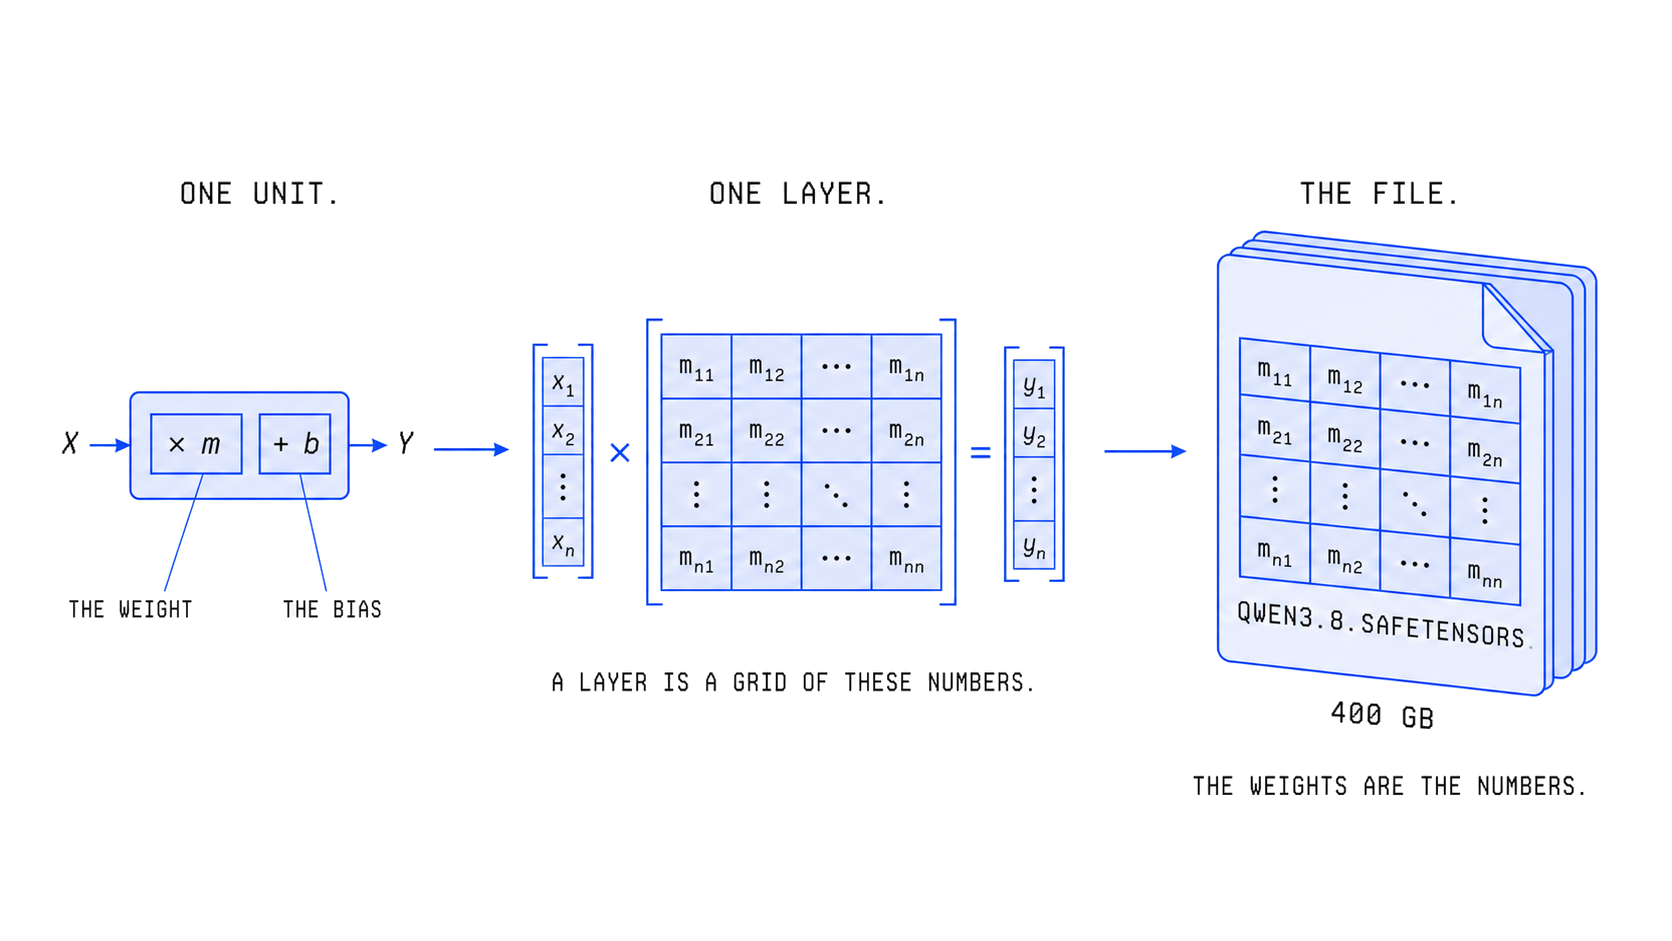
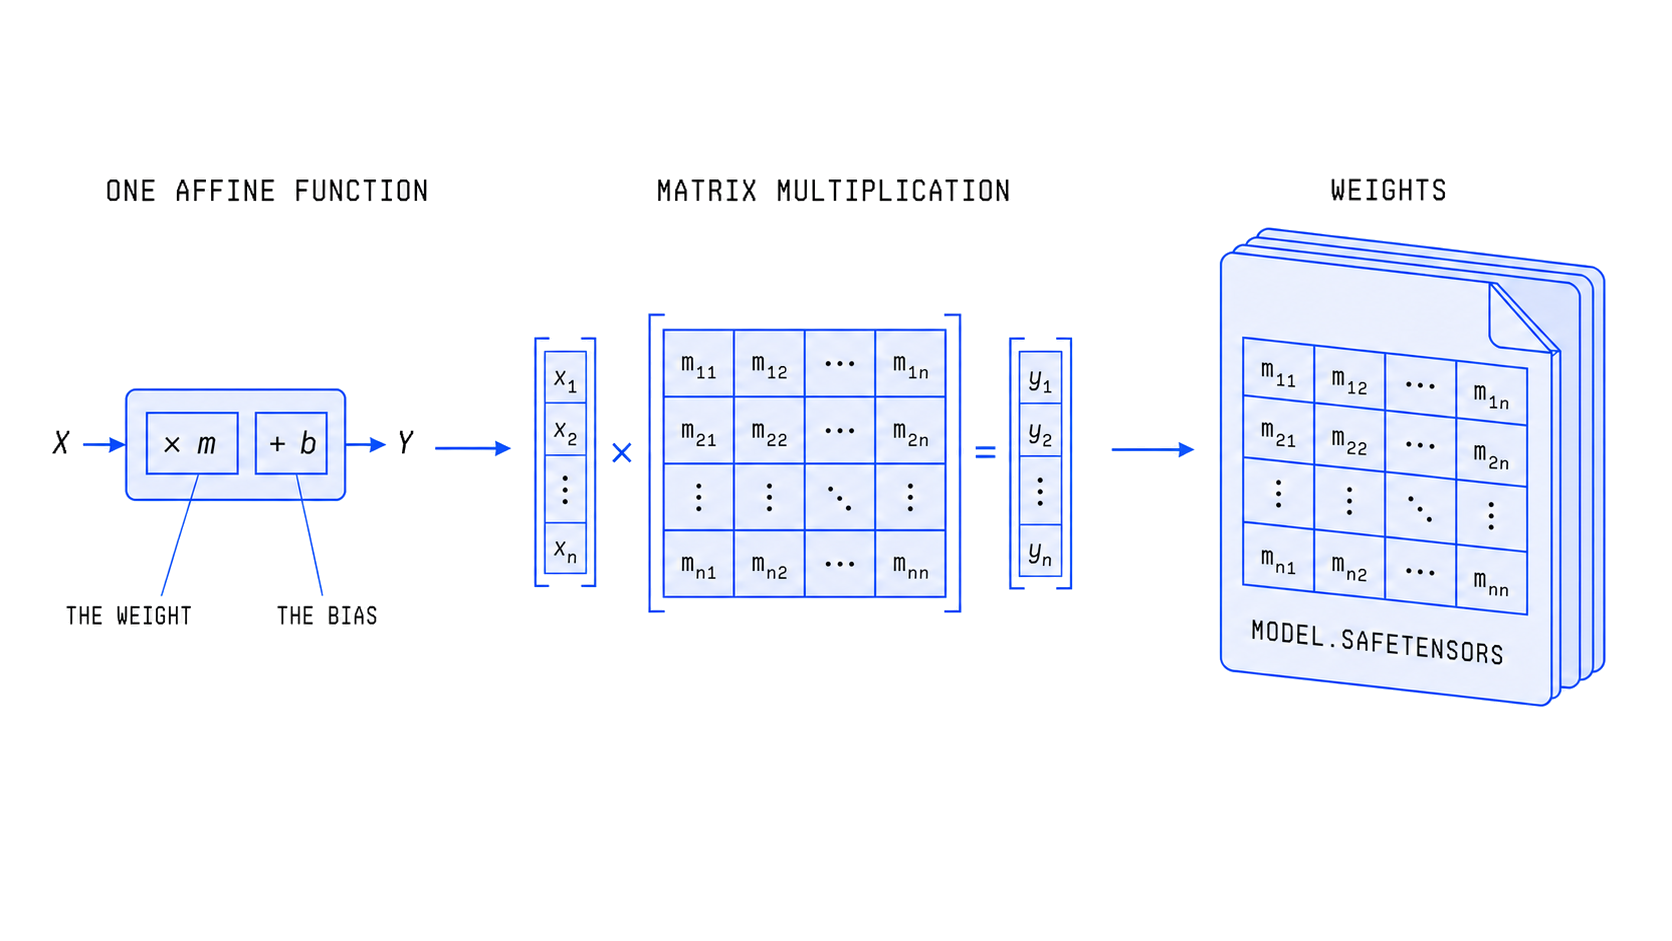
Promote chosen figures and add toggleable slide notes
Figures 03, 04, and 05 keep one variant each under their canonical
filenames, so revisions overwrite in place. Slides gain a `note` prop
for working reminders, hidden until N is pressed so they travel with the
slide they describe without ever surfacing while presenting. Records
what each pending figure still needs.

diff --git a/components/mdx/presentation.tsx b/components/mdx/presentation.tsx
@@ -4,7 +4,9 @@ import { MoveLeft, MoveRight } from "lucide-react";
 import { Geist_Mono, Lora } from "next/font/google";
 import {
   Children,
+  createContext,
   useCallback,
+  useContext,
   useEffect,
   useRef,
   useState,
@@ -52,6 +54,11 @@ const controlButtonClass =
 // cursor fade. Keyboard navigation deliberately does not wake them.
 const FULLSCREEN_IDLE_MS = 2500;
 
+// Working notes travel with the slide they describe (what to redraw, what
+// still needs writing) but must never appear while presenting, so they are
+// hidden until the author presses N.
+const SlideNotesVisible = createContext(false);
+
 // A deliberately small authoring surface: a post supplies one PresentationSlide
 // per slide, and this component owns only viewing, movement, and fullscreen.
 export function Presentation({
@@ -70,6 +77,7 @@ export function Presentation({
   const [isTheater, setIsTheater] = useState(false);
   const [isFullscreen, setIsFullscreen] = useState(false);
   const [isIdle, setIsIdle] = useState(false);
+  const [notesVisible, setNotesVisible] = useState(false);
   const [fullscreenError, setFullscreenError] = useState<string | null>(null);
   const rootRef = useRef<HTMLElement>(null);
   const slideCount = slides.length;
@@ -182,6 +190,12 @@ export function Presentation({
         return;
       }
 
+      if (event.key.toLowerCase() === "n") {
+        event.preventDefault();
+        setNotesVisible((visible) => !visible);
+        return;
+      }
+
       if (event.key.toLowerCase() === "f") {
         event.preventDefault();
         void enterFullscreen();
@@ -214,6 +228,7 @@ export function Presentation({
         {/* The embedded deck is a preview; clicking the slide surface presents
             it in the browser viewport, ⌘-click on the whole display. Links and
             controls inside a slide keep their own click behaviour. */}
+        <SlideNotesVisible.Provider value={notesVisible}>
         <div
           className={`h-full w-full ${isExpanded ? "" : "cursor-zoom-in"}`}
           onClick={(event) => {
@@ -233,6 +248,7 @@ export function Presentation({
         >
           {slides[currentIndex]}
         </div>
+        </SlideNotesVisible.Provider>
 
         {/* Chrome is bare mono corner marks — no rules, no bars. Label
             top-left, presenting controls bottom-left, counter bottom-right. */}
@@ -342,15 +358,19 @@ export function Presentation({
 export function PresentationSlide({
   children,
   layout = "top",
+  note,
   notes
 }: {
   children: ReactNode;
   layout?: "top" | "center" | "fill";
+  /** Working note: what this slide still needs. Shown only when N is pressed. */
+  note?: string;
   /** Sources for the slide's marked claims, pinned under the content. */
   notes?: ReactNode;
 }) {
   const fill = layout === "fill";
   const items = fill ? "items-stretch" : layout === "center" ? "items-center" : "items-start";
+  const noteVisible = useContext(SlideNotesVisible);
 
   return (
     <div className={`flex h-full w-full flex-col px-[max(1.25rem,7cqw)] pt-[max(3rem,8cqw)] pb-[max(3rem,8cqw)] font-(family-name:--font-presentation-serif) [&_a]:underline [&_a]:decoration-1 [&_a]:underline-offset-4 [&_blockquote]:border-l [&_blockquote]:border-(--pres-rule) [&_blockquote]:pl-[max(0.9rem,2.5cqw)] [&_blockquote]:text-(--pres-ink-muted) [&_h1]:max-w-[19ch] [&_h1]:text-[max(1.6rem,4.5cqw)] [&_h1]:leading-[1.08] [&_h1]:font-medium [&_h1]:tracking-[-0.025em] [&_h2]:max-w-[40ch] [&_h2]:text-[max(1.3rem,3.3cqw)] [&_h2]:leading-[1.12] [&_h2]:font-medium [&_h2]:tracking-[-0.02em] [&_li]:mt-[0.4em] [&_li]:text-[max(0.85rem,2cqw)] [&_li]:leading-[1.35] [&_li_li]:text-[0.8em] [&_li_ul]:mt-[0.3em] [&_ol]:mt-[1em] [&_ol]:list-decimal [&_ol]:pl-[1.4em] [&_p]:mt-[1em] [&_p]:max-w-[54ch] [&_p]:text-[max(0.78rem,1.4cqw)] [&_p]:leading-[1.55] [&_p]:text-(--pres-ink-muted) [&_strong]:font-semibold [&_ul]:mt-[1em] [&_ul]:list-disc [&_ul]:pl-[1.25em]`}>
@@ -360,6 +380,13 @@ export function PresentationSlide({
         <div className={`w-full ${fill ? "flex min-h-0 flex-col" : ""}`}>{children}</div>
       </div>
       {notes ? <div className="w-full pt-[max(0.6rem,1.2cqw)]">{notes}</div> : null}
+      {note && noteVisible ? (
+        <div className="w-full pt-[max(0.6rem,1.2cqw)]">
+          <p className="!mt-0 !max-w-none border-l-2 border-(--pres-accent) pl-[0.8em] font-(family-name:--font-presentation-mono) !text-[max(0.55rem,0.85cqw)] !leading-[1.5] !text-(--pres-accent)">
+            {note}
+          </p>
+        </div>
+      ) : null}
     </div>
   );
 }

diff --git a/components/presentations/open-weights.tsx b/components/presentations/open-weights.tsx
@@ -244,49 +244,27 @@ export function OpenWeightsPresentation() {
         </SlideStack>
       </PresentationSlide>
 
-      {/* Candidates. Keep one per figure, drop the rest. */}
-      <PresentationSlide layout="fill">
+      <PresentationSlide
+        layout="fill"
+        note="Fig 03: upscale pending. Text fidelity to improve."
+      >
         <SlideFigure
           alt="One affine unit, a layer of those units as a matrix, and the matrix as a file on disk."
-          caption="Fig. 03, option A"
+          caption="Fig. 03. What is a weight"
           frame={false}
-          src="/images/blog/open-weights-ai-models/03-1-what-is-a-weight.png"
+          src="/images/blog/open-weights-ai-models/03-what-is-a-weight.png"
         />
       </PresentationSlide>
 
-      <PresentationSlide layout="fill">
-        <SlideFigure
-          alt="One affine unit, a layer of those units as a matrix, and the matrix as a file on disk."
-          caption="Fig. 03, option B"
-          frame={false}
-          src="/images/blog/open-weights-ai-models/03-2-what-is-a-weight.png"
-        />
-      </PresentationSlide>
-
-      <PresentationSlide layout="fill">
+      <PresentationSlide
+        layout="fill"
+        note="Fig 04: redraw with real word fragments in the token boxes, they are empty so tokenizing is asserted rather than shown. Upscale pending."
+      >
         <SlideFigure
           alt="Prompt tokenized, passed through the weights, emitted one token at a time."
-          caption="Fig. 04, option A"
+          caption="Fig. 04. Text through the weights"
           frame={false}
-          src="/images/blog/open-weights-ai-models/04-1-text-through-weights.png"
-        />
-      </PresentationSlide>
-
-      <PresentationSlide layout="fill">
-        <SlideFigure
-          alt="Prompt tokenized, passed through the weights, emitted one token at a time."
-          caption="Fig. 04, option B"
-          frame={false}
-          src="/images/blog/open-weights-ai-models/04-2-text-through-weights.png"
-        />
-      </PresentationSlide>
-
-      <PresentationSlide layout="fill">
-        <SlideFigure
-          alt="Prompt tokenized, passed through the weights, emitted one token at a time."
-          caption="Fig. 04, option C"
-          frame={false}
-          src="/images/blog/open-weights-ai-models/04-3-text-through-weights.png"
+          src="/images/blog/open-weights-ai-models/04-text-through-weights.png"
         />
       </PresentationSlide>
 
@@ -337,36 +315,21 @@ export function OpenWeightsPresentation() {
         </SlideStack>
       </PresentationSlide>
 
-      <PresentationSlide>
+      <PresentationSlide note="Needs its content. Elasticity analogy, latte vs heart medication, then what you already run on AI.">
         <SlideStack align="start">
           <h2>Why dependence carries risk</h2>
         </SlideStack>
       </PresentationSlide>
 
-      <PresentationSlide layout="fill">
+      <PresentationSlide
+        layout="fill"
+        note="Fig 05: redraw. Curves must start as one line, not two. Keep push and pull. Drop OPTIMIZED FOR THEM NOT YOU and the solid fill. Replace the fill with a dotted bracket labelled LOST VALUE. Label the y axis VALUE. Base it on this version."
+      >
         <SlideFigure
           alt="Retention and user value rise together, then diverge under optimization pressure."
-          caption="Fig. 05, option A"
+          caption="Fig. 05. Retention diverges from value"
           frame={false}
-          src="/images/blog/open-weights-ai-models/05-1-retention-diverges-from-value.png"
-        />
-      </PresentationSlide>
-
-      <PresentationSlide layout="fill">
-        <SlideFigure
-          alt="Retention and user value rise together, then diverge under optimization pressure."
-          caption="Fig. 05, option B"
-          frame={false}
-          src="/images/blog/open-weights-ai-models/05-2-retention-diverges-from-value.png"
-        />
-      </PresentationSlide>
-
-      <PresentationSlide layout="fill">
-        <SlideFigure
-          alt="Retention and user value rise together, then diverge under optimization pressure."
-          caption="Fig. 05, option C"
-          frame={false}
-          src="/images/blog/open-weights-ai-models/05-3-retention-diverges-from-value.png"
+          src="/images/blog/open-weights-ai-models/05-retention-diverges-from-value.png"
         />
       </PresentationSlide>
 

diff --git a/image-requests/05-retention-diverges-from-value.md b/image-requests/05-retention-diverges-from-value.md
@@ -47,6 +47,22 @@ and both widen the same gap.
 
 ## Notes
 
-Keep the curves in neutral ink and the labels in working ink, so the accent on
-the gap is the only warm thing on the page. It should be the first thing the
-eye lands on.
+Keep the curves in neutral ink and the labels in working ink.
+
+## Revision
+
+Three variants delivered. The chosen one puts the two force labels outside the
+curves, pushing on them, which is what a force diagram means. Changes wanted:
+
+- **The curves must start as a single line.** Retention and value are the same
+  quantity early on. Two parallel lines from the origin say they were always
+  different, which is the opposite of the point. One line that splits.
+- **Drop the solid fill.** Replace it with a dotted bracket spanning the gap,
+  labelled `LOST VALUE`. The bracket measures the gap; the fill just shouts.
+- **Drop `OPTIMIZED FOR THEM, NOT YOU`.** The bracket label carries it, and the
+  spoken track carries the rest.
+- **Keep `PULL, COME BACK` and `PUSH, DO NOT GET SUED`** exactly as they are,
+  including their small mono example lists. Those work.
+- **Label the y axis `VALUE`.**
+- Axis lines and curves read heavy in blue. Curves should be neutral ink, axes
+  quieter than the curves.
